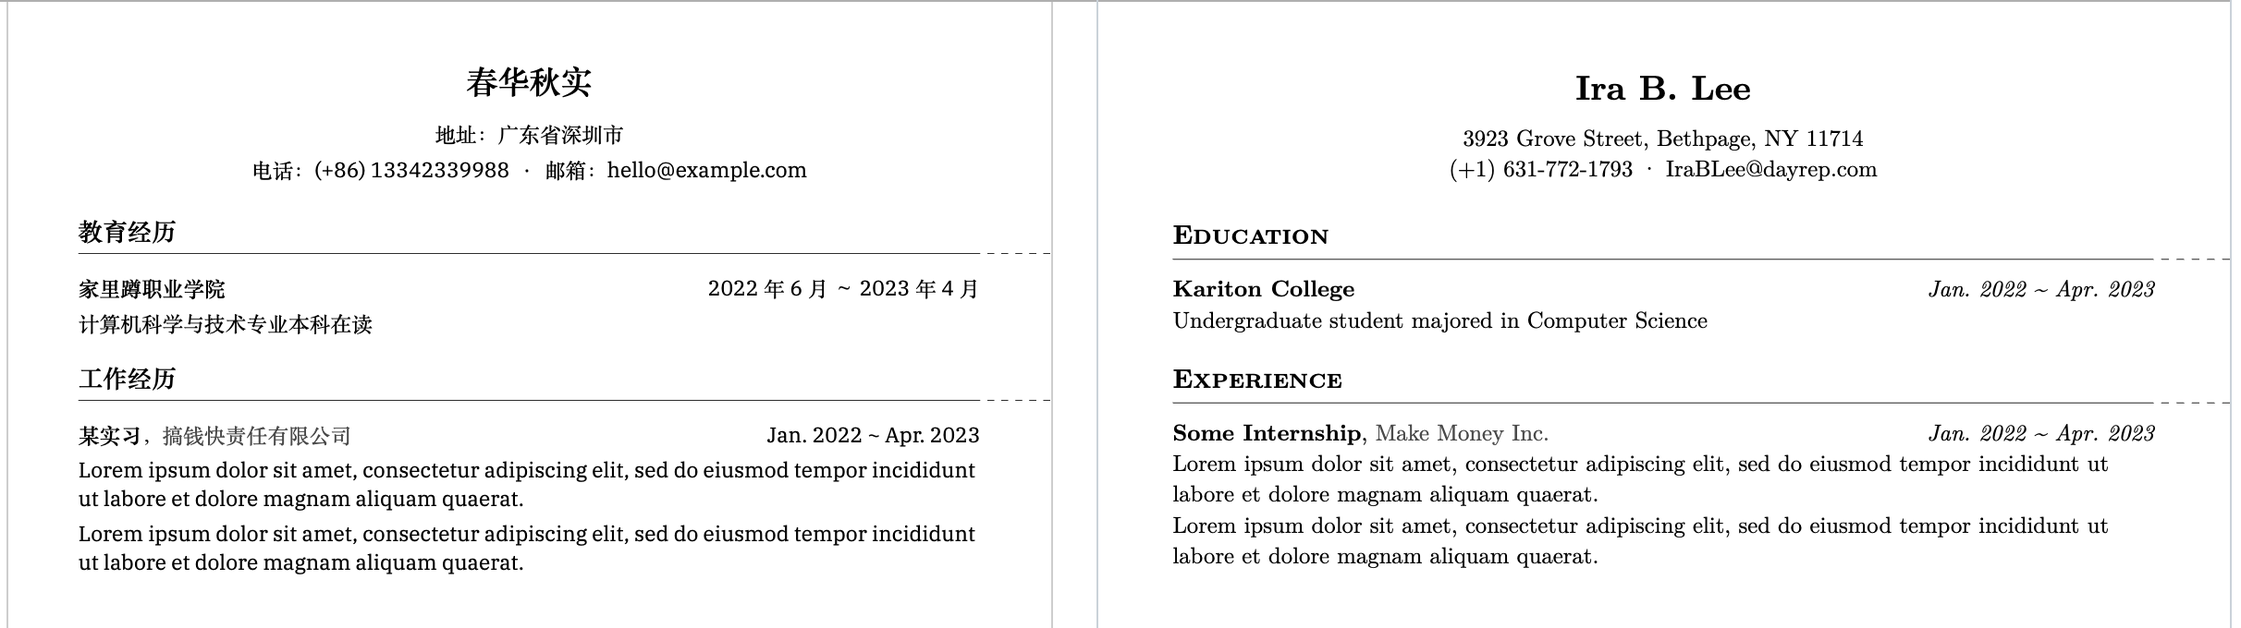
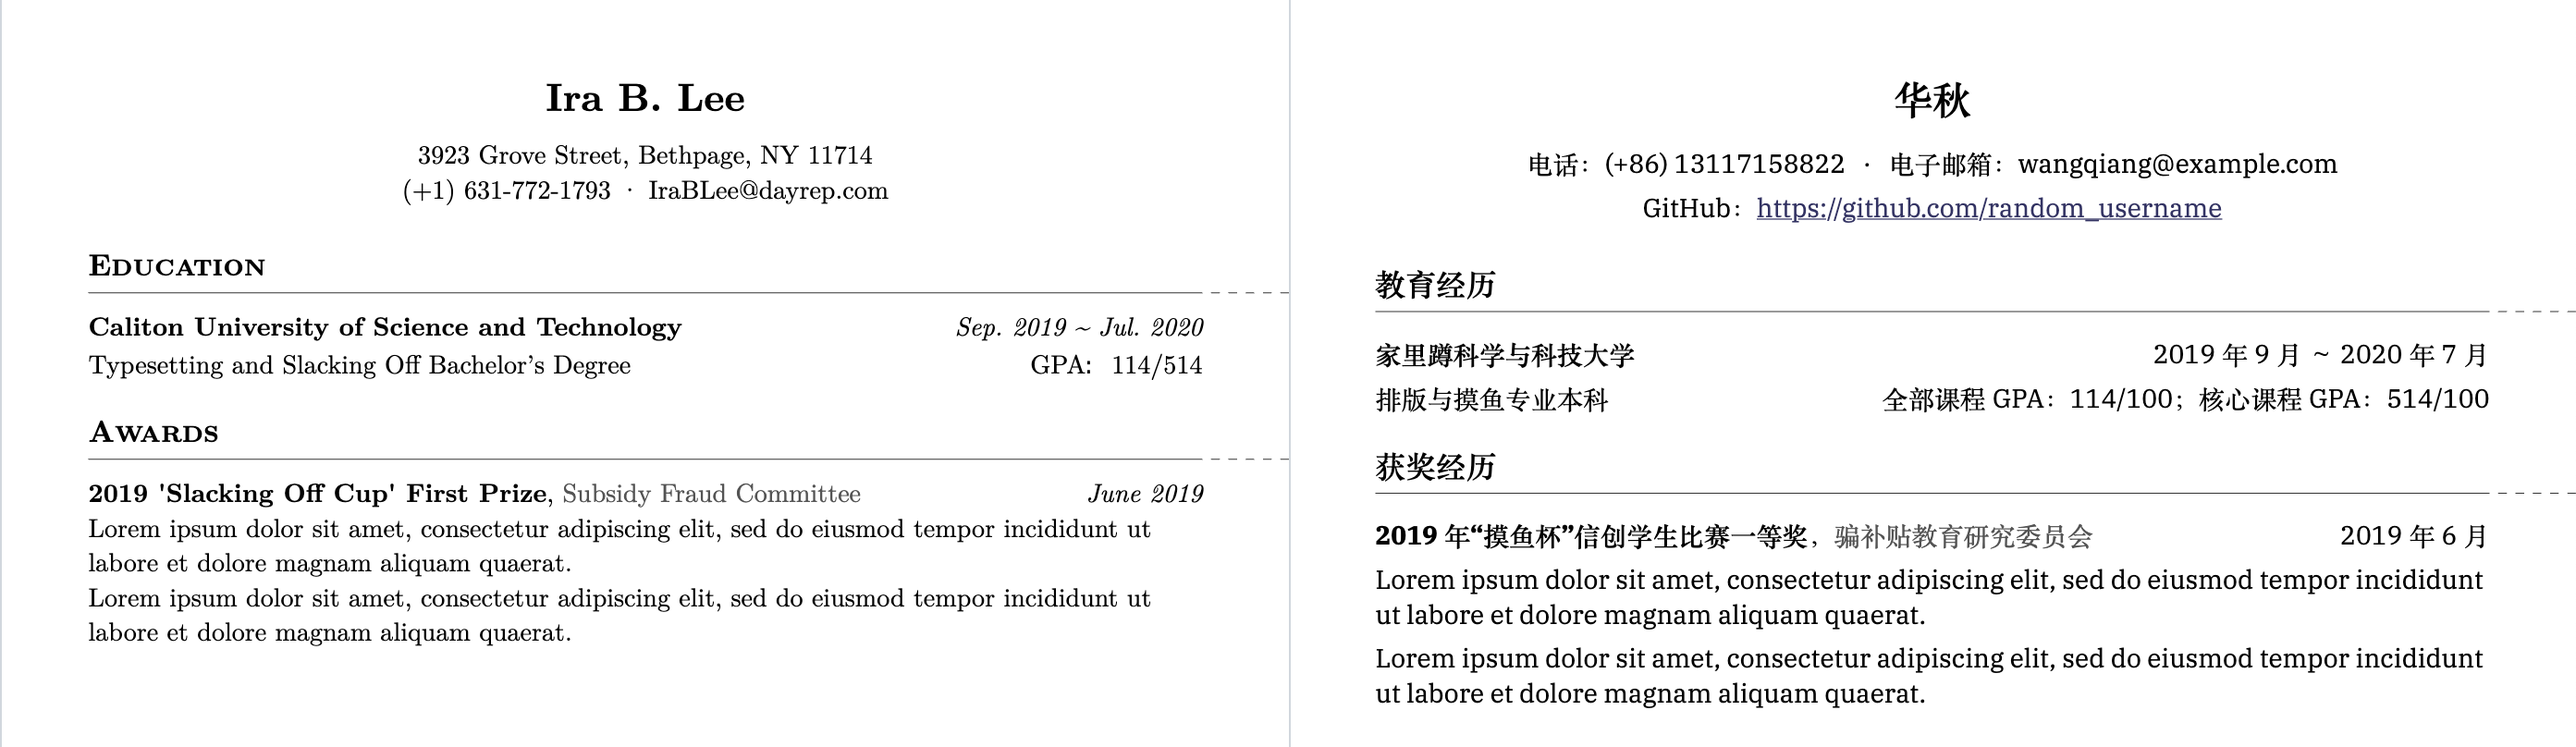
feat: update .gitignore and README.md files

diff --git a/README.md b/README.md
@@ -25,10 +25,9 @@ Configure the document. For example:
 )
 ```
 
-And start writing.
+And start writing. You may need to refer to the [examples](#example-code) to learn how to use built-in functions.
 
 ## Example code
-
 
 ### 中文
 
@@ -36,7 +35,7 @@ And start writing.
 #import "cv_template_zh.typ": *
 
 #show: doc => conf(
-  name: "王强",
+  name: "华秋",
   phone: "电话：(+86) 13117158822",
   email: "电子邮箱：wangqiang@example.com",
   info: [GitHub：#cv_link("https://github.com/random_username")],
@@ -94,8 +93,8 @@ GPA：114/514
 = Awards
 
 #cv_block(
-  name: "2019 'Slacking Off Cup' Innovation Student Competition First Prize",
-  entity: "Subsidy Fraud Education Research Committee",
+  name: "2019 'Slacking Off Cup' First Prize",
+  entity: "Subsidy Fraud Committee",
   date: "June 2019"
 )
 
